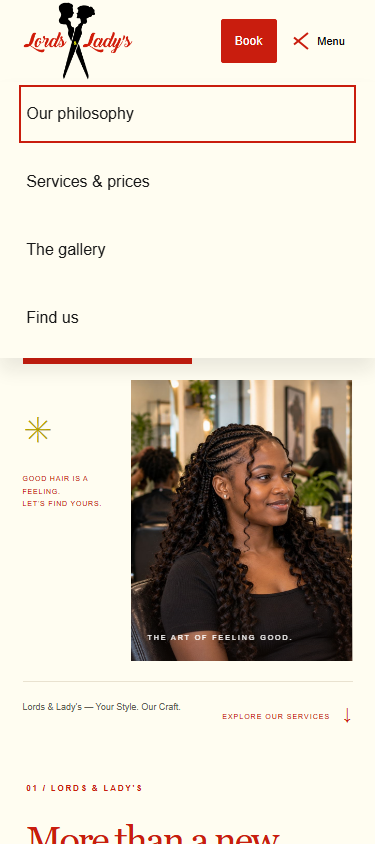
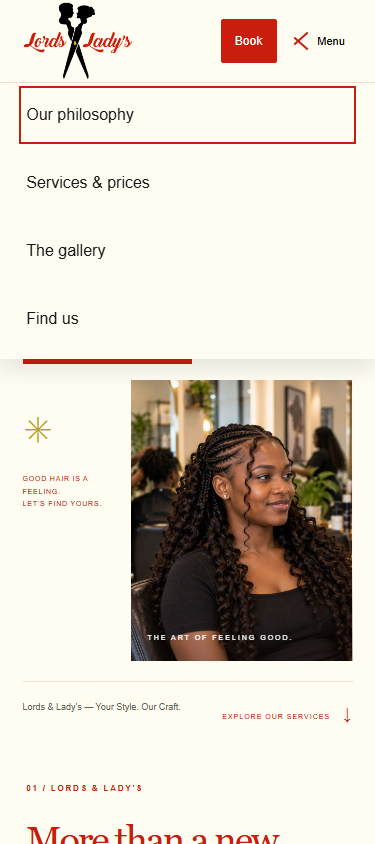
new

diff --git a/Trial350k/styles.css b/Trial350k/styles.css
@@ -74,7 +74,7 @@ html{scroll-padding-top:var(--header-scroll-offset,115px)}
  .menu-icon i:last-child{top:9px}
  .header.menu-open .menu-icon i:first-child{transform:translateY(6px) rotate(45deg)}
  .header.menu-open .menu-icon i:last-child{transform:translateY(-6px) rotate(-45deg)}
- .header nav{top:100%;left:0;right:0;max-height:calc(100dvh - 64px);overflow-y:auto;overscroll-behavior:contain;padding:10px 7% 18px;gap:4px;background:var(--surface);box-shadow:0 12px 18px rgba(24,24,24,.09);font-size:15px}
+ .header nav{top:calc(100% + 1px);left:0;right:0;max-height:calc(100dvh - 64px);overflow-y:auto;overscroll-behavior:contain;padding:10px 7% 18px;gap:4px;background:var(--surface);box-shadow:0 12px 18px rgba(24,24,24,.09);font-size:15px}
  .header.menu-open nav{display:flex;flex-direction:column}
  .header nav a{min-height:44px;display:flex;align-items:center;padding:8px 0}
 }
